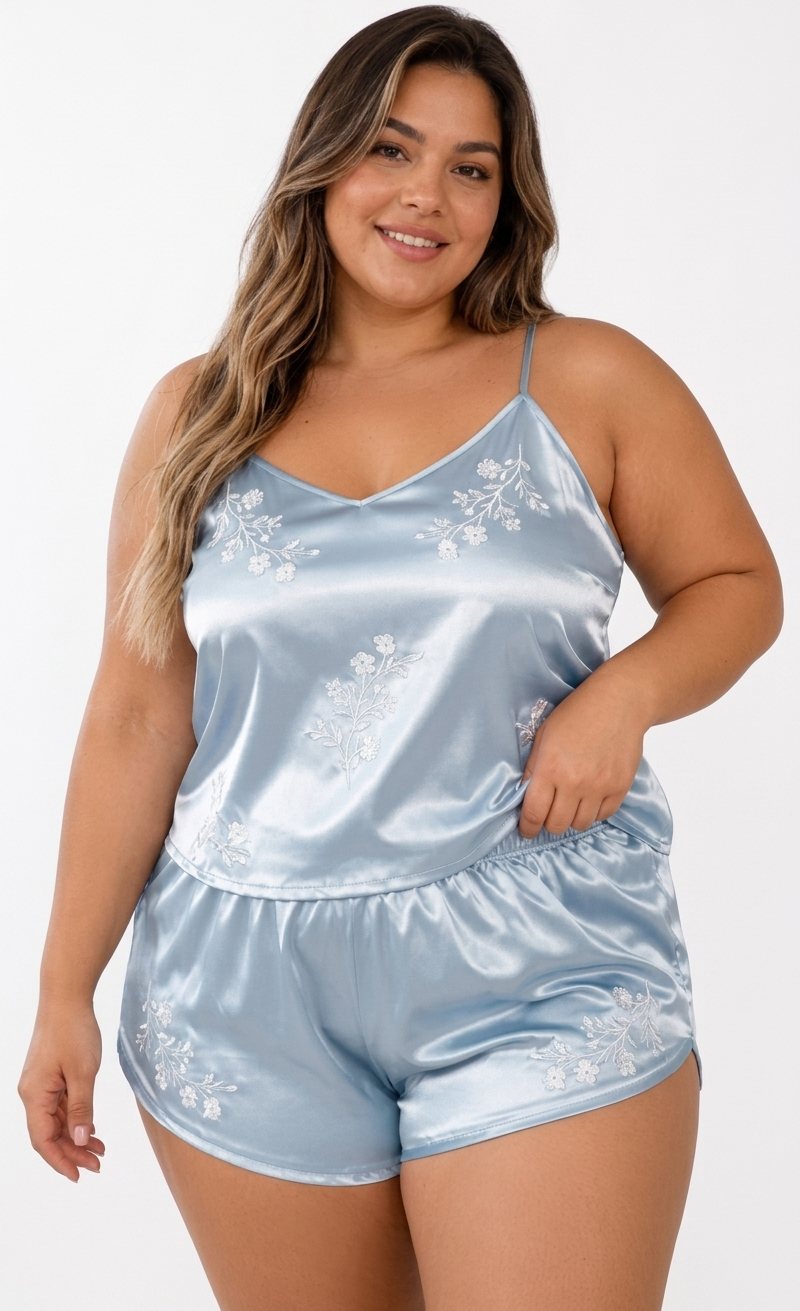
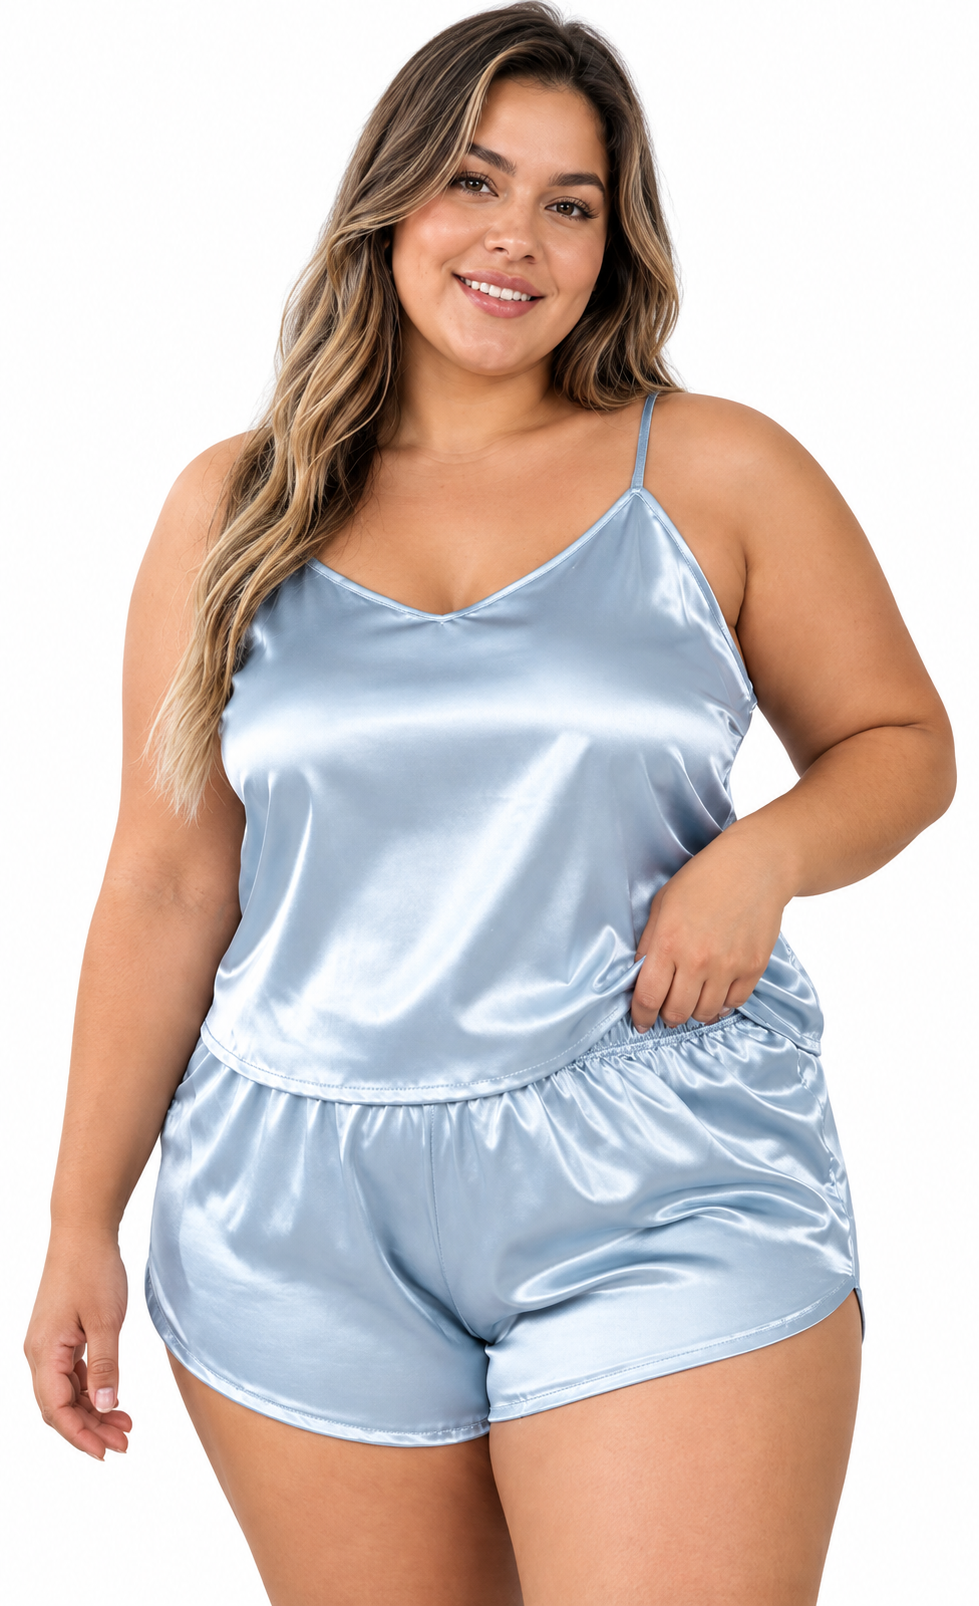
Add files via upload

Changed region(s): [[0.0, 0.0, 1.0, 1.0], [0.0625, 0.6102, 0.0938, 0.7018]]

diff --git a/js/catalog.js b/js/catalog.js
@@ -465,7 +465,7 @@ const CATALOGO = [
   {
     id: "m001",
     nombre: "Mantequilla Corporal Durazno - 180 g",
-    categoria: "Maquillaje",
+    categoria: "Skincare",
     precio: 15000,
     stock: 4,
     tallas: [],
@@ -477,7 +477,7 @@ const CATALOGO = [
   {
     id: "m002",
     nombre: "Spray Shimmer Tornasol",
-    categoria: "Maquillaje",
+    categoria: "Skincare",
     precio: 14000,
     stock: 4,
     tallas: [],
@@ -490,7 +490,7 @@ const CATALOGO = [
   {
     id: "m003",
     nombre: "Crema de Manos OneSpring",
-    categoria: "Maquillaje",
+    categoria: "Skincare",
     precio: 2500,
     stock: 50,
     tallas: [],
@@ -503,7 +503,7 @@ const CATALOGO = [
   {
     id: "m004",
     nombre: "Kit Corporal Bioaqua Vainilla Ice Cream Exfoliante e Hidratante",
-    categoria: "Maquillaje",
+    categoria: "Skincare",
     precio: 30000,
     stock: 2,
     tallas: [],
@@ -516,7 +516,7 @@ const CATALOGO = [
   {
     id: "m005",
     nombre: "Mascarilla Piel Luminosa",
-    categoria: "Maquillaje",
+    categoria: "Skincare",
     precio: 5500,
     stock: 12,
     tallas: [],
@@ -529,7 +529,7 @@ const CATALOGO = [
   {
     id: "m006",
     nombre: "Suero Aclarante Bioaqua",
-    categoria: "Maquillaje",
+    categoria: "Skincare",
     precio: 7500,
     stock: 12,
     tallas: [],
@@ -542,7 +542,7 @@ const CATALOGO = [
   {
     id: "m007",
     nombre: "Mascarillas Faciales Bioaqua",
-    categoria: "Maquillaje",
+    categoria: "Skincare",
     precio: 2000,
     stock: 120,
     tallas: [],
